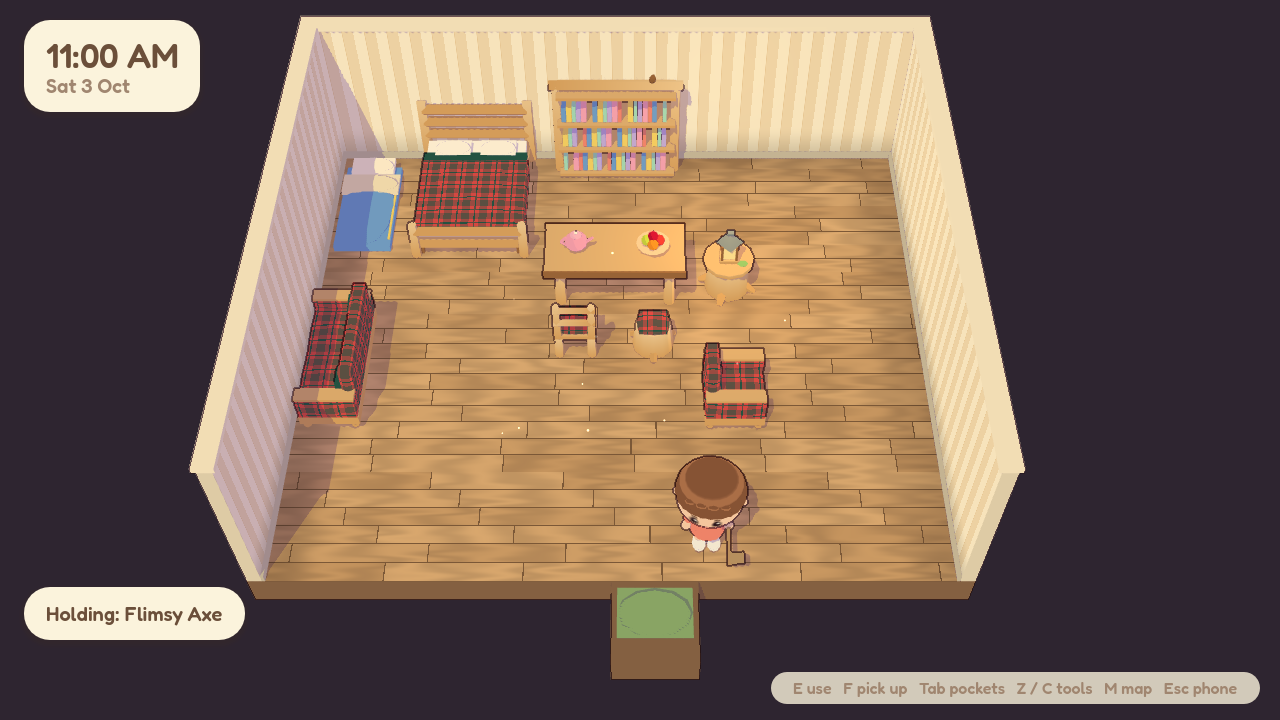
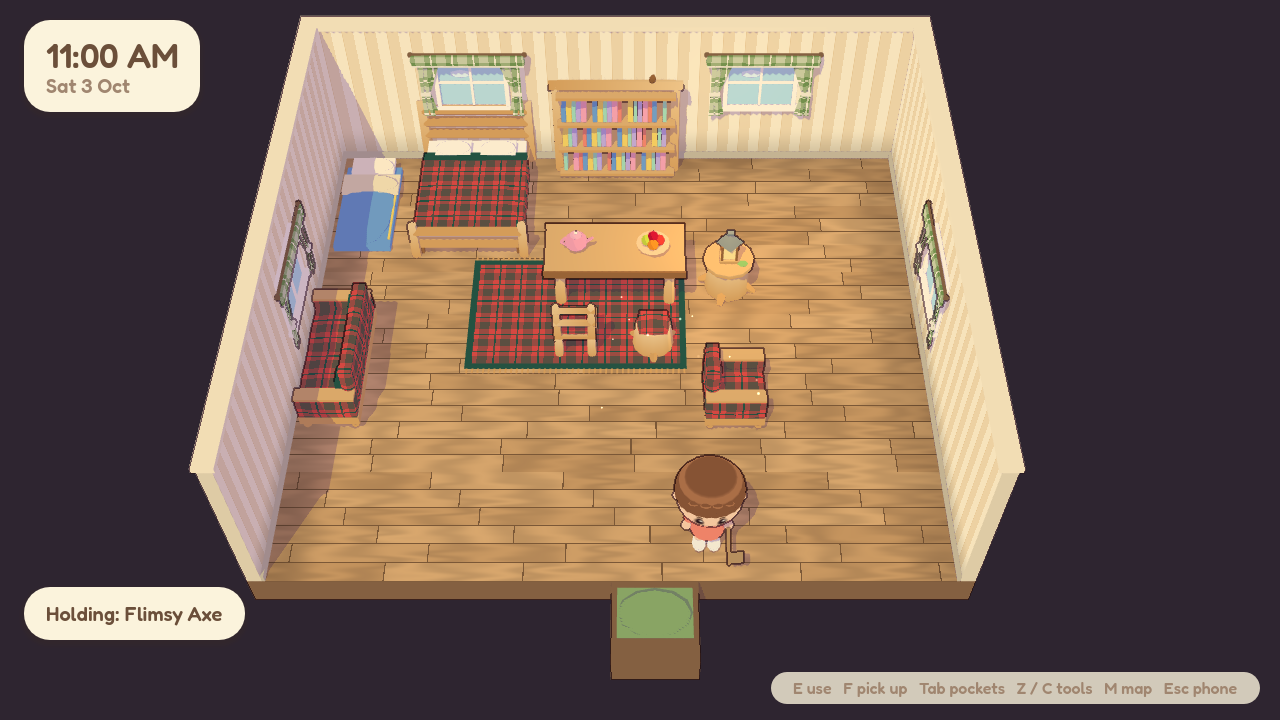
Rugs and curtains
Rugs lie on their own floor layer in World: walkable, furniture stands
on them (placed before or after), and they pack up last. Rooms get
windows in the back and side walls, and curtains are a room look like
wallpaper that dresses them in a print. A new Soft Furnishings set has
round, large and runner rugs and curtains in ten prints, and each
furniture series gains a rug.

Claude-Session: https://claude.ai/code/session_01UJJzA2PM6QsdyLdV8aiv2e

diff --git a/README.md b/README.md
@@ -80,10 +80,12 @@ On-screen hints follow whatever you last touched, keyboard or controller.
   rocks for stone, clay and iron (one rock a day gives acorns).
 - DIY workbench with 61 recipes: tools and furniture. Message bottles wash up each day
   with new recipes.
-- 148 pieces of furniture to place anywhere on the grid with a preview, rotate and pick
+- 190 pieces of furniture to place anywhere on the grid with a preview, rotate and pick
   back up. Three furniture series (Meadow Cottage, Driftwood, Woodland Lodge), each 10
   pieces in four colourways with printed cushions, quilts and shades. Change a piece's
-  (or a garment's) colourway at the workbench with a customisation kit from Lucy. Sit on chairs and benches; put teapots, candles and plants on tables.
+  (or a garment's) colourway at the workbench with a customisation kit from Lucy.
+- Rugs (round, large and runners, in ten prints plus one per series) lie under your
+  furniture, and curtains dress your home's windows. Sit on chairs and benches; put teapots, candles and plants on tables.
   Lanterns and campfires glow at night.
 - An animated player with knees and elbows: walking, running, chopping, sitting.
 - Minimap and a full island map.

diff --git a/CLAUDE.md b/CLAUDE.md
@@ -52,7 +52,8 @@ the network allows it, otherwise a build from source (about 30 minutes on 4 core
 - `data/items.json`: item definitions. Fruit and flower items are generated in `ItemDB`,
   and so are clothes, from bases with colourways in `data/clothing.json` (plan:
   `docs/CATALOGUE.md`), and furniture series from `data/furniture/<series>.json`
-  (models with fabric have a second surface: show them with `Models.dress`). Effects: `Effects.burst(kind, pos)` / `Effects.emitter(kind)`.
+  (models with fabric have a second surface: show them with `Models.dress`). Rugs
+  (`placeable.rug`) sit on their own floor layer in `World`, under furniture. Effects: `Effects.burst(kind, pos)` / `Effects.emitter(kind)`.
   `data/recipes.json`: DIY recipes. `data/appearance.json`: character options.
 
 ## Conventions

diff --git a/docs/CATALOGUE.md b/docs/CATALOGUE.md
@@ -163,7 +163,8 @@ Crossing, to keep characters cheap to draw.
 2. Done: furniture series files and a part library; Meadow Cottage, Driftwood and
    Woodland Lodge (10 bases each, 4 variants).
 3. Done: more prints in the cloth shader, and customising at the workbench (a kit
-   changes a piece or garment to any of its variants). Next: rugs and curtains.
+   changes a piece or garment to any of its variants), rugs (a floor layer furniture
+   stands on) and curtains (a room look, like wallpaper), in `data/furniture/textiles.json`.
 4. Mushroom Grove and Starlight with glowing pieces (uses the particle and glow work).
 5. Seasonal series alongside the seasons and weather milestone.
 6. Icon atlas baking once the item count passes a few hundred.

diff --git a/docs/DESIGN.md b/docs/DESIGN.md
@@ -125,6 +125,7 @@ Milestone 3b:
 - [x] Seven more fabric prints; furniture series Meadow Cottage, Driftwood and Woodland
   Lodge (120 items from a shared part library, sold by Lucy, 19 new recipes)
 - [x] Customising at the workbench: any colourway of a piece or garment, one kit each
+- [x] Rugs on a floor layer under furniture; windows in every room, and curtains
 
 Next milestones (suggested order):
 3c. Bigger house (more rooms) and outdoor house colours. Clothes as items instead of
